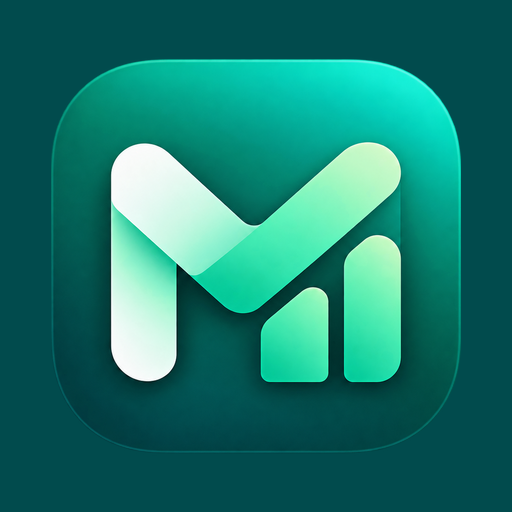
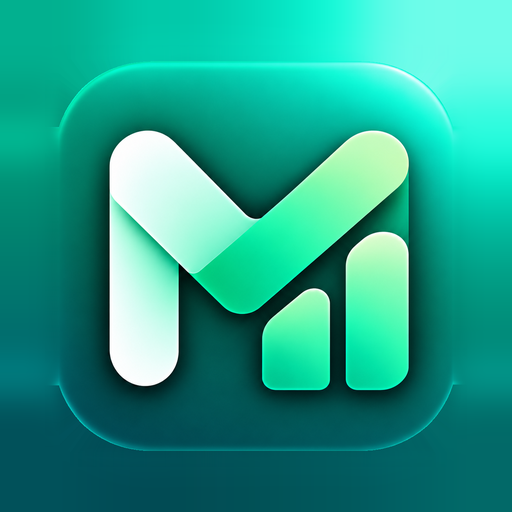
MONEVA v9: новый логотип из PDF (шапка, иконки приложения, PDF), надпись MONEVA в цветах логотипа
Claude-Session: https://claude.ai/code/session_01GbAzjexFASd7erFx6ng7c4

diff --git a/index.html b/index.html
@@ -319,8 +319,9 @@ html, body { height: 100%; overflow: hidden; }
 body { padding: 0 !important; }
 #scroller { position: fixed; left: 0; right: 0; bottom: 0; top: env(safe-area-inset-top, 0px); overflow-y: auto; overflow-x: hidden; -webkit-overflow-scrolling: touch; overscroll-behavior-y: contain;
   padding: 14px max(16px, env(safe-area-inset-left, 0px)) calc(86px + env(safe-area-inset-bottom, 0px)) max(16px, env(safe-area-inset-right, 0px)); }
-.brand img { width: 46px; height: 46px; border-radius: 12px; box-shadow: 0 3px 12px color-mix(in srgb, var(--accent) 38%, transparent); }
-.top h1 { font-size: 1.32rem; font-weight: 850; letter-spacing: 0.14em; background: linear-gradient(90deg, var(--ink) 0%, var(--accent) 100%); -webkit-background-clip: text; background-clip: text; -webkit-text-fill-color: transparent; color: transparent; }
+.brand img { width: 46px; height: 46px; border-radius: 12px; box-shadow: 0 3px 12px rgba(10, 190, 150, 0.35); }
+:root[data-theme="dark"] { --b1: #2df0c4; --b2: #c4fbec; }
+.top h1 { font-size: 1.32rem; font-weight: 850; letter-spacing: 0.14em; background: linear-gradient(90deg, var(--b1, #045a4f) 0%, var(--b2, #09a07c) 100%); -webkit-background-clip: text; background-clip: text; -webkit-text-fill-color: transparent; color: transparent; }
 .slogan { color: var(--ink); opacity: 0.72; font-weight: 500; }
 details.fold { display: block; padding: 0; }
 .fold > summary { list-style: none; display: flex; align-items: center; gap: 10px; padding: 11px 12px; cursor: pointer; min-height: 54px; }
@@ -733,7 +734,7 @@ details.fold { display: block; padding: 0; }
     return f;
   }
   /* ---------- хранение: ничего не стирается, при сомнении — только чтение ---------- */
-  var LEGACY = 'semya-rashody-v1', PREV = 'moneva-prev', LSBK = 'moneva-bk', CORRUPT = 'moneva-corrupt', APPVER = '8';
+  var LEGACY = 'semya-rashody-v1', PREV = 'moneva-prev', LSBK = 'moneva-bk', CORRUPT = 'moneva-corrupt', APPVER = '9';
   var store = { safe: false, why: '', fresh: false, volatile: false, persisted: null, mirror: null, snaps: [], idb: null, lastSnap: 0 };
   function lsGet(k) { try { return localStorage.getItem(k); } catch (e) { store.volatile = true; return null; } }
   function lsSet(k, v) { try { localStorage.setItem(k, v); return true; } catch (e) { return false; } }

diff --git a/sw.js b/sw.js
@@ -1,5 +1,5 @@
 // Кэш для работы без интернета. Увеличьте номер версии, если меняете файлы сайта.
-var CACHE = 'moneva-v8';
+var CACHE = 'moneva-v9';
 var FILES = ['./', './index.html', './manifest.json', './i18n.js', './pdf.js', './pdf-fonts.js', './icon-192.png', './icon-512.png', './icon-maskable-512.png', './logo-mark.png', './apple-touch-icon.png', './favicon-32.png'];
 
 self.addEventListener('install', function (e) {
